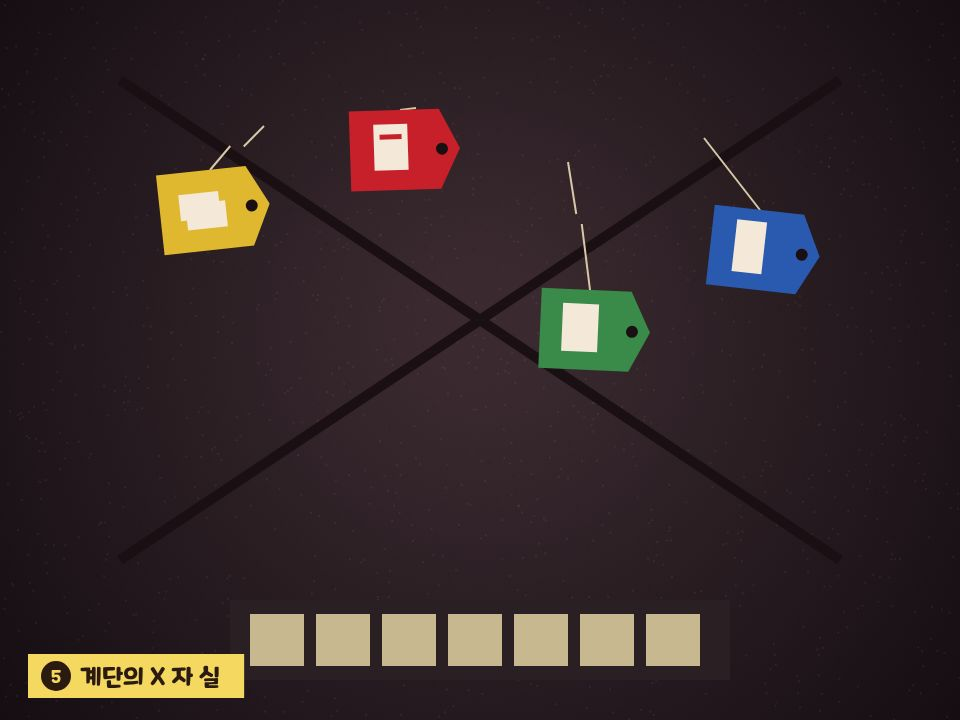
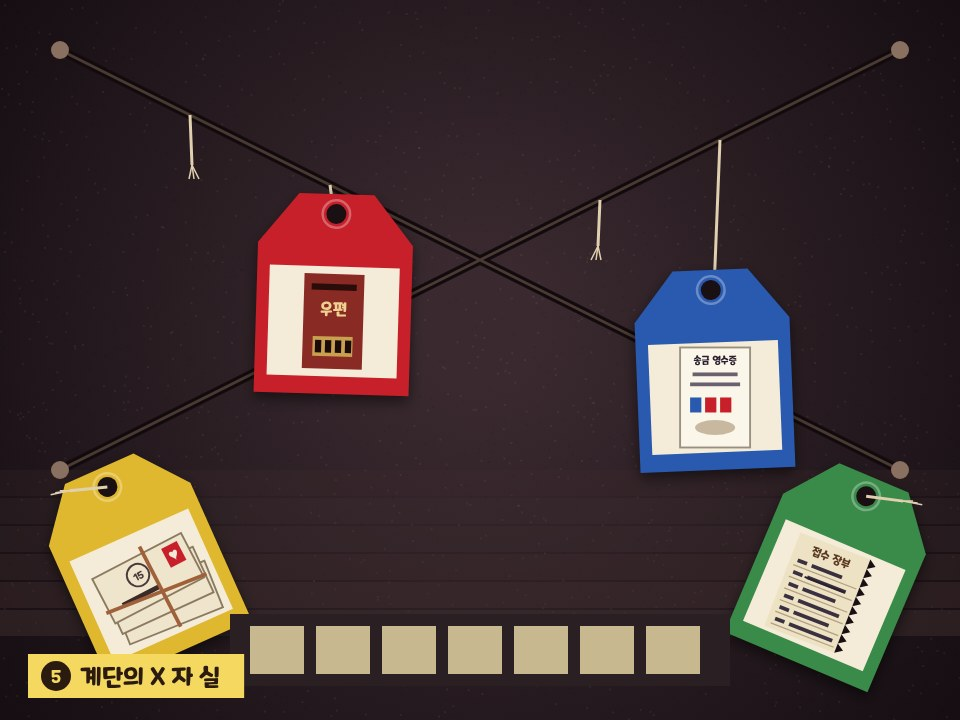
Tori puzzle 5: clearer tag pictures, cut tags lie on the floor
Claude-Session: https://claude.ai/code/session_01GyJEdcFjE828PDvtvLXbrE

diff --git a/docs/DARK_STORY.md b/docs/DARK_STORY.md
@@ -160,7 +160,7 @@
 | 2 | 특징 네 가지 · 세 가지가 다른 한 통 | 한정우 |
 | 3 | 금액은 5 월 한 장 + 통장 "3 ~ 6 월 150 만" → 우표 값 계산 | 160 |
 | 4 | 창턱 반쪽은 한 줄 밀려 찢김 · 줄 그은 두 줄은 함정 | 열어봄 |
-| 5 | 꼬리표 둘은 실이 끊김 · 높이 순서 | 0315160 |
+| 5 | 꼬리표 넷에 1~4 번 단서 그림 · 둘은 실이 끊겨 바닥에 떨어짐 · 걸린 것만 높이 순서 | 0315160 |
 | 6 | 빨간 하트 우표 중 하트가 거꾸로 붙은 칸만 | 15 |
 | 7 | 번호 없는 봉투 다섯 · 빠진 단계 (탁자에 붓 없음) | 풀칠 |
 | 8 | 규칙 넷 (하트 우표) | 3 |
